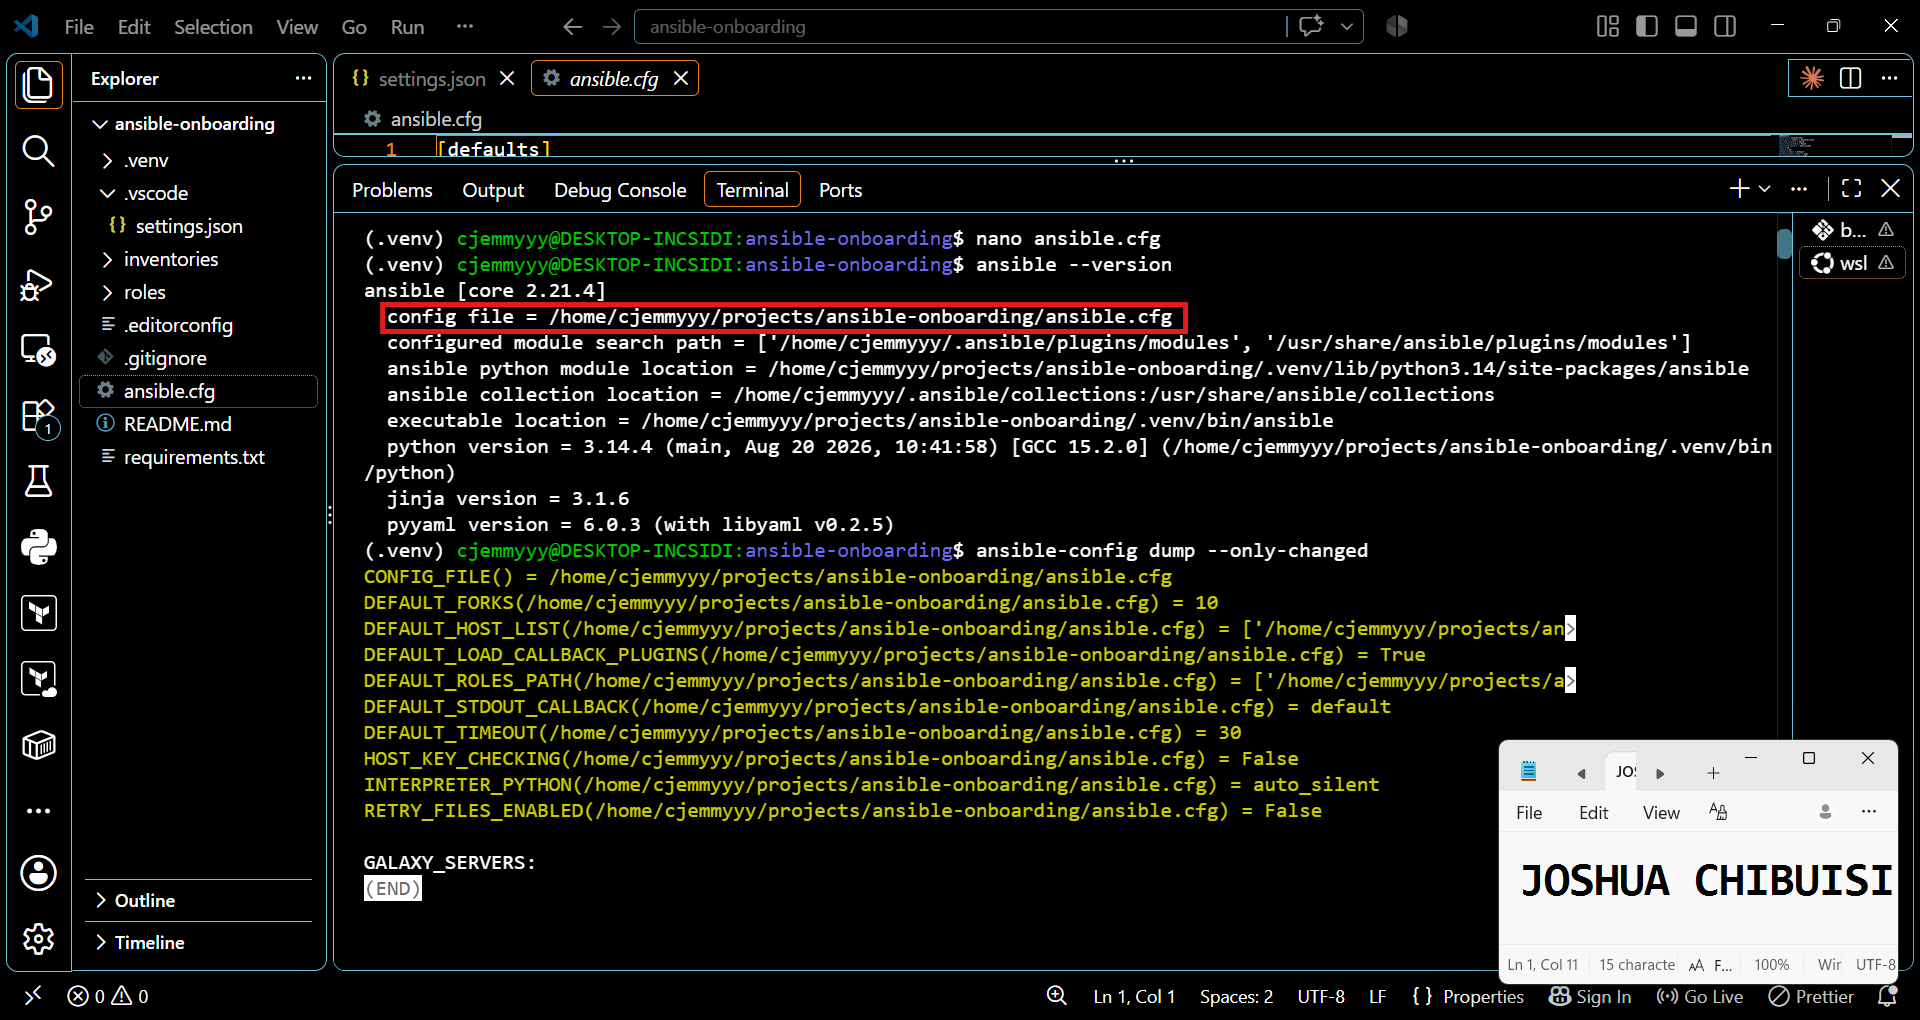
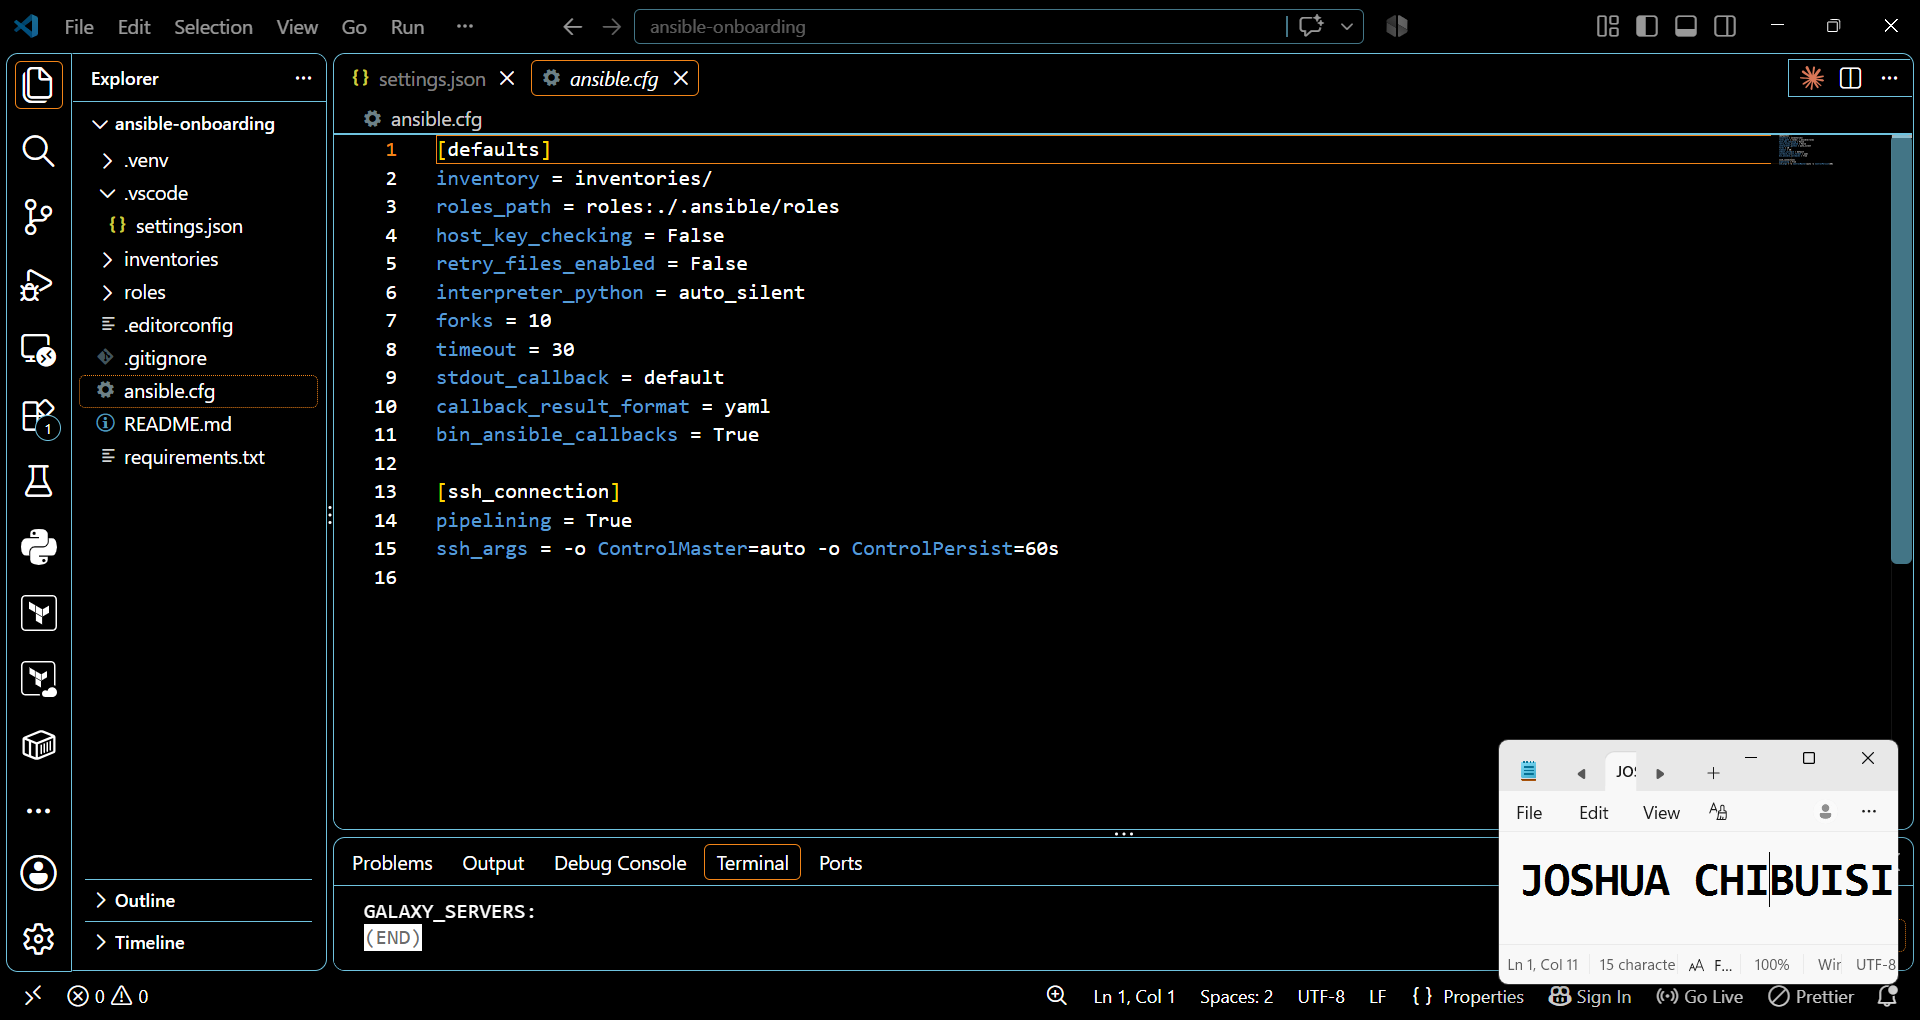
Set Up a Team-Ready Ansible Development Workstation

diff --git a/week-09-ansible/assignment-01-set-up-a-team-ready-ansible-development-workstation.md b/week-09-ansible/assignment-01-set-up-a-team-ready-ansible-development-workstation.md
@@ -24,7 +24,7 @@ Create the assignment workspace, initialize a Git repository, prepare the requir
 
 #### Screenshot 1 — Terminal showing the `ansible-onboarding` path, `ls -la` output, and `git status` confirming the Git repository is on the `main` branch
 
-Add your screenshot here.
+![](screenshots/ASS1-SC1.png)
 
 ---
 
@@ -38,7 +38,7 @@ Create an isolated Python virtual environment and install Ansible and the requir
 
 #### Screenshot 2 — Terminal showing the active `(.venv)` environment, `which ansible`, `ansible --version`, `ansible-lint --version`, `yamllint --version`, and `pre-commit --version`
 
-Add your screenshot here.
+![](screenshots/ASS1-SC2.png)
 
 ---
 
@@ -52,13 +52,13 @@ Configure Visual Studio Code to use the project’s Python virtual environment a
 
 #### Screenshot 3 — VS Code Extensions panel showing the Ansible, YAML, and Python extensions installed
 
-Add your screenshot here.
+![](screenshots/ASS1-SC3.png)
 
 ---
 
 #### Screenshot 4 — VS Code showing `.vscode/settings.json` and `.editorconfig` open side by side, with the required settings clearly visible
 
-Add your screenshot here.
+![](screenshots/ASS1-SC4.png)
 
 ---
 
@@ -72,13 +72,13 @@ Create a reusable `ansible.cfg` file containing the default settings that will b
 
 #### Screenshot 5 — `ansible.cfg` open in VS Code or another editor, showing the complete configuration
 
-Add your screenshot here.
+![](screenshots/ASS1-SC5.png)
 
 ---
 
 #### Screenshot 6 — Terminal showing `ansible --version` with the `ansible.cfg` path and the output of `ansible-config dump --only-changed`
 
-Add your screenshot here.
+![](screenshots/ASS1-SC6.png)
 
 ---
 
@@ -92,7 +92,7 @@ Prepare SSH key authentication, load the key into the SSH agent, configure reusa
 
 #### Screenshot 7 — Terminal showing `ssh-add -l` with the ED25519 key loaded and the SSH configuration verification output
 
-Add your screenshot here.
+![](screenshots/ASS1-SC7.png)
 
 ---
 
@@ -106,7 +106,7 @@ Configure your Git identity and install pre-commit hooks that validate YAML and 
 
 #### Screenshot 8 — Terminal showing your Git full name, Git email, default branch, successful `pre-commit install` output, and `.git/hooks/pre-commit`
 
-Add your screenshot here.
+![](screenshots/ASS1-SC8.png)
 
 ---
 
@@ -120,13 +120,13 @@ Verify that Ansible, the linting tools, Git hooks, SSH agent, and Git ignore rul
 
 #### Screenshot 9 — Terminal showing `pre-commit run --all-files` completing successfully
 
-Add your screenshot here.
+![](screenshots/ASS1-SC9.png)
 
 ---
 
 #### Screenshot 10 — Terminal showing `ansible --version` with the project configuration path and `ssh-add -l` with the ED25519 key loaded
 
-Add your screenshot here.
+![](screenshots/ASS1-SC10.png)
 
 ---
 
@@ -140,13 +140,13 @@ Document the completed Ansible workstation setup and create a reusable checklist
 
 #### Screenshot 11 — Terminal showing the final `ansible-onboarding` project structure
 
-Add your screenshot here.
+![](screenshots/ASS1-SC11.png)
 
 ---
 
 #### Screenshot 12 — VS Code Markdown preview showing your full name, project summary, and part of the “New Machine? Do This” checklist
 
-Add your screenshot here.
+![](screenshots/ASS1-SC12.png)
 
 ---
 
@@ -156,25 +156,42 @@ Answer the following in your own words:
 
 **1. What is one feature that makes your workstation setup team-friendly?**
 
-Add your answer here.
+The most useful team-friendly feature of this setup is project-level configuration and dependency isolation.
+
+The ansible.cfg, .gitignore, pre-commit configuration, and .venv work together to make the development environment predictable. Team members can clone the project, create their own virtual environment, install the required dependencies, and work with the same Ansible configuration and automated quality checks.
+
+This reduces differences between individual development environments and catches common problems before changes are committed.
 
 ---
 
 **2. What is one pitfall you avoided while completing the setup?**
 
-Add your answer here.
+One pitfall avoided was installing Ansible and its dependencies globally.
+
+Installing everything directly into the system Python environment can cause dependency conflicts and make it difficult to reproduce the same setup on another machine.
+
+.venv keeps the project's dependencies isolated.
+
+The setup also avoids other common mistakes by:
+
+Keeping .venv out of Git through .gitignore.
+Keeping SSH private-key contents out of the repository.
+Avoiding unnecessary replacement or overwriting of existing SSH keys.
+Running linting and validation checks before commits.
+Restricting disabled SSH host-key checking to the controlled training environment.
+Using a broken venv
 
 ---
 
 **3. Why should Ansible be installed inside a Python virtual environment?**
 
-Add your answer here.
+Installing Ansible in a Python virtual environment (venv) is considered a standard best practice because Ansible is entirely Python-based. Installing it globally can cause severe issues with your operating system's software.
 
 ---
 
 **4. Why must SSH private keys and `.venv/` remain outside version control?**
 
-Add your answer here.
+SSH private keys and .venv/ (virtual environments) must remain outside version control to prevent severe security breaches and repository bloat.
 
 ---
 
@@ -182,15 +199,15 @@ Add your answer here.
 
 Confirm that the following files are included in your assignment workspace:
 
-- [ ] `README.md`
-- [ ] `requirements.txt`
-- [ ] `.gitignore`
-- [ ] `.editorconfig`
-- [ ] `.vscode/settings.json`
-- [ ] `ansible.cfg`
-- [ ] `.pre-commit-config.yaml`
-- [ ] `inventories/`
-- [ ] `roles/`
+- [x] `README.md`
+- [x] `requirements.txt`
+- [x] `.gitignore`
+- [x] `.editorconfig`
+- [x] `.vscode/settings.json`
+- [x] `ansible.cfg`
+- [x] `.pre-commit-config.yaml`
+- [x] `inventories/`
+- [x] `roles/`
 
 ---
 
@@ -206,33 +223,33 @@ Confirm that the following files are included in your assignment workspace:
 
 # Completion Checklist
 
-- [ ] Task 1: `ansible-onboarding` workspace created
-- [ ] Task 1: Git initialized on the `main` branch
-- [ ] Task 1: `.gitignore` created
-- [ ] Task 2: Python virtual environment created
-- [ ] Task 2: Virtual environment activated
-- [ ] Task 2: Ansible installed inside `.venv`
-- [ ] Task 2: `ansible-lint`, `yamllint`, and `pre-commit` installed
-- [ ] Task 2: `requirements.txt` created
-- [ ] Task 3: Required VS Code extensions installed
-- [ ] Task 3: VS Code uses the Python interpreter from `.venv`
-- [ ] Task 3: `.vscode/settings.json` created
-- [ ] Task 3: `.editorconfig` created
-- [ ] Task 4: `ansible.cfg` created
-- [ ] Task 4: Ansible loads `ansible.cfg` from the project directory
-- [ ] Task 5: ED25519 SSH key exists
-- [ ] Task 5: SSH private key has not been exposed
-- [ ] Task 5: SSH key loaded into the SSH agent
-- [ ] Task 5: `~/.ssh/config` contains the required settings
-- [ ] Task 5: `~/.ssh/known_hosts` exists
-- [ ] Task 6: Git identity configured correctly
-- [ ] Task 6: Pre-commit hooks installed
-- [ ] Task 7: `pre-commit run --all-files` completes successfully
-- [ ] Task 8: `README.md` contains your full name and workstation details
-- [ ] Task 8: “New Machine? Do This” checklist contains 10–12 items
-- [ ] All 12 required screenshots are included
-- [ ] Assignment questions are answered
-- [ ] No sensitive information is exposed
+- [x] Task 1: `ansible-onboarding` workspace created
+- [x] Task 1: Git initialized on the `main` branch
+- [x] Task 1: `.gitignore` created
+- [x] Task 2: Python virtual environment created
+- [x] Task 2: Virtual environment activated
+- [x] Task 2: Ansible installed inside `.venv`
+- [x] Task 2: `ansible-lint`, `yamllint`, and `pre-commit` installed
+- [x] Task 2: `requirements.txt` created
+- [x] Task 3: Required VS Code extensions installed
+- [x] Task 3: VS Code uses the Python interpreter from `.venv`
+- [x] Task 3: `.vscode/settings.json` created
+- [x] Task 3: `.editorconfig` created
+- [x] Task 4: `ansible.cfg` created
+- [x] Task 4: Ansible loads `ansible.cfg` from the project directory
+- [x] Task 5: ED25519 SSH key exists
+- [x] Task 5: SSH private key has not been exposed
+- [x] Task 5: SSH key loaded into the SSH agent
+- [x] Task 5: `~/.ssh/config` contains the required settings
+- [x] Task 5: `~/.ssh/known_hosts` exists
+- [x] Task 6: Git identity configured correctly
+- [x] Task 6: Pre-commit hooks installed
+- [x] Task 7: `pre-commit run --all-files` completes successfully
+- [x] Task 8: `README.md` contains your full name and workstation details
+- [x] Task 8: “New Machine? Do This” checklist contains 10–12 items
+- [x] All 12 required screenshots are included
+- [x] Assignment questions are answered
+- [x] No sensitive information is exposed
 
 ---
 
